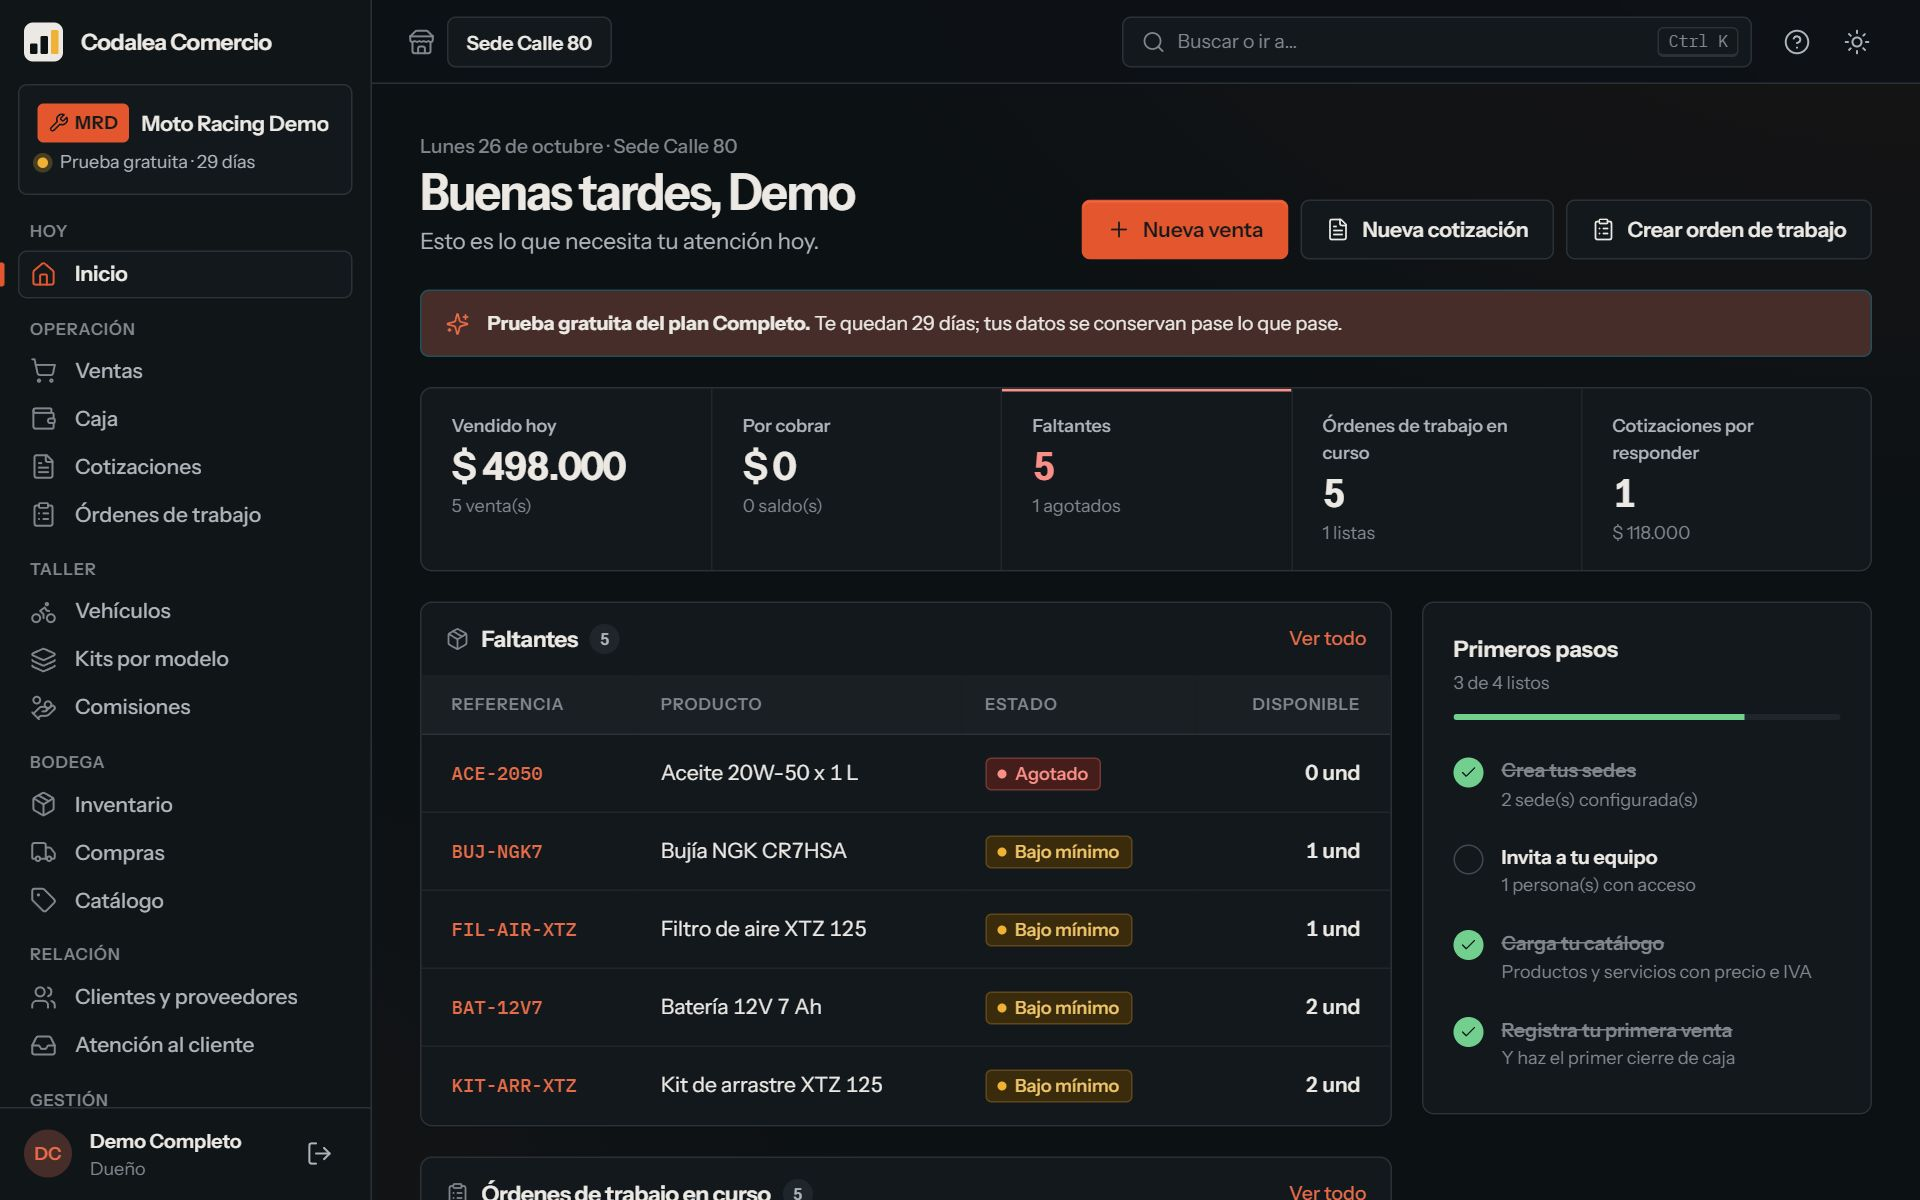
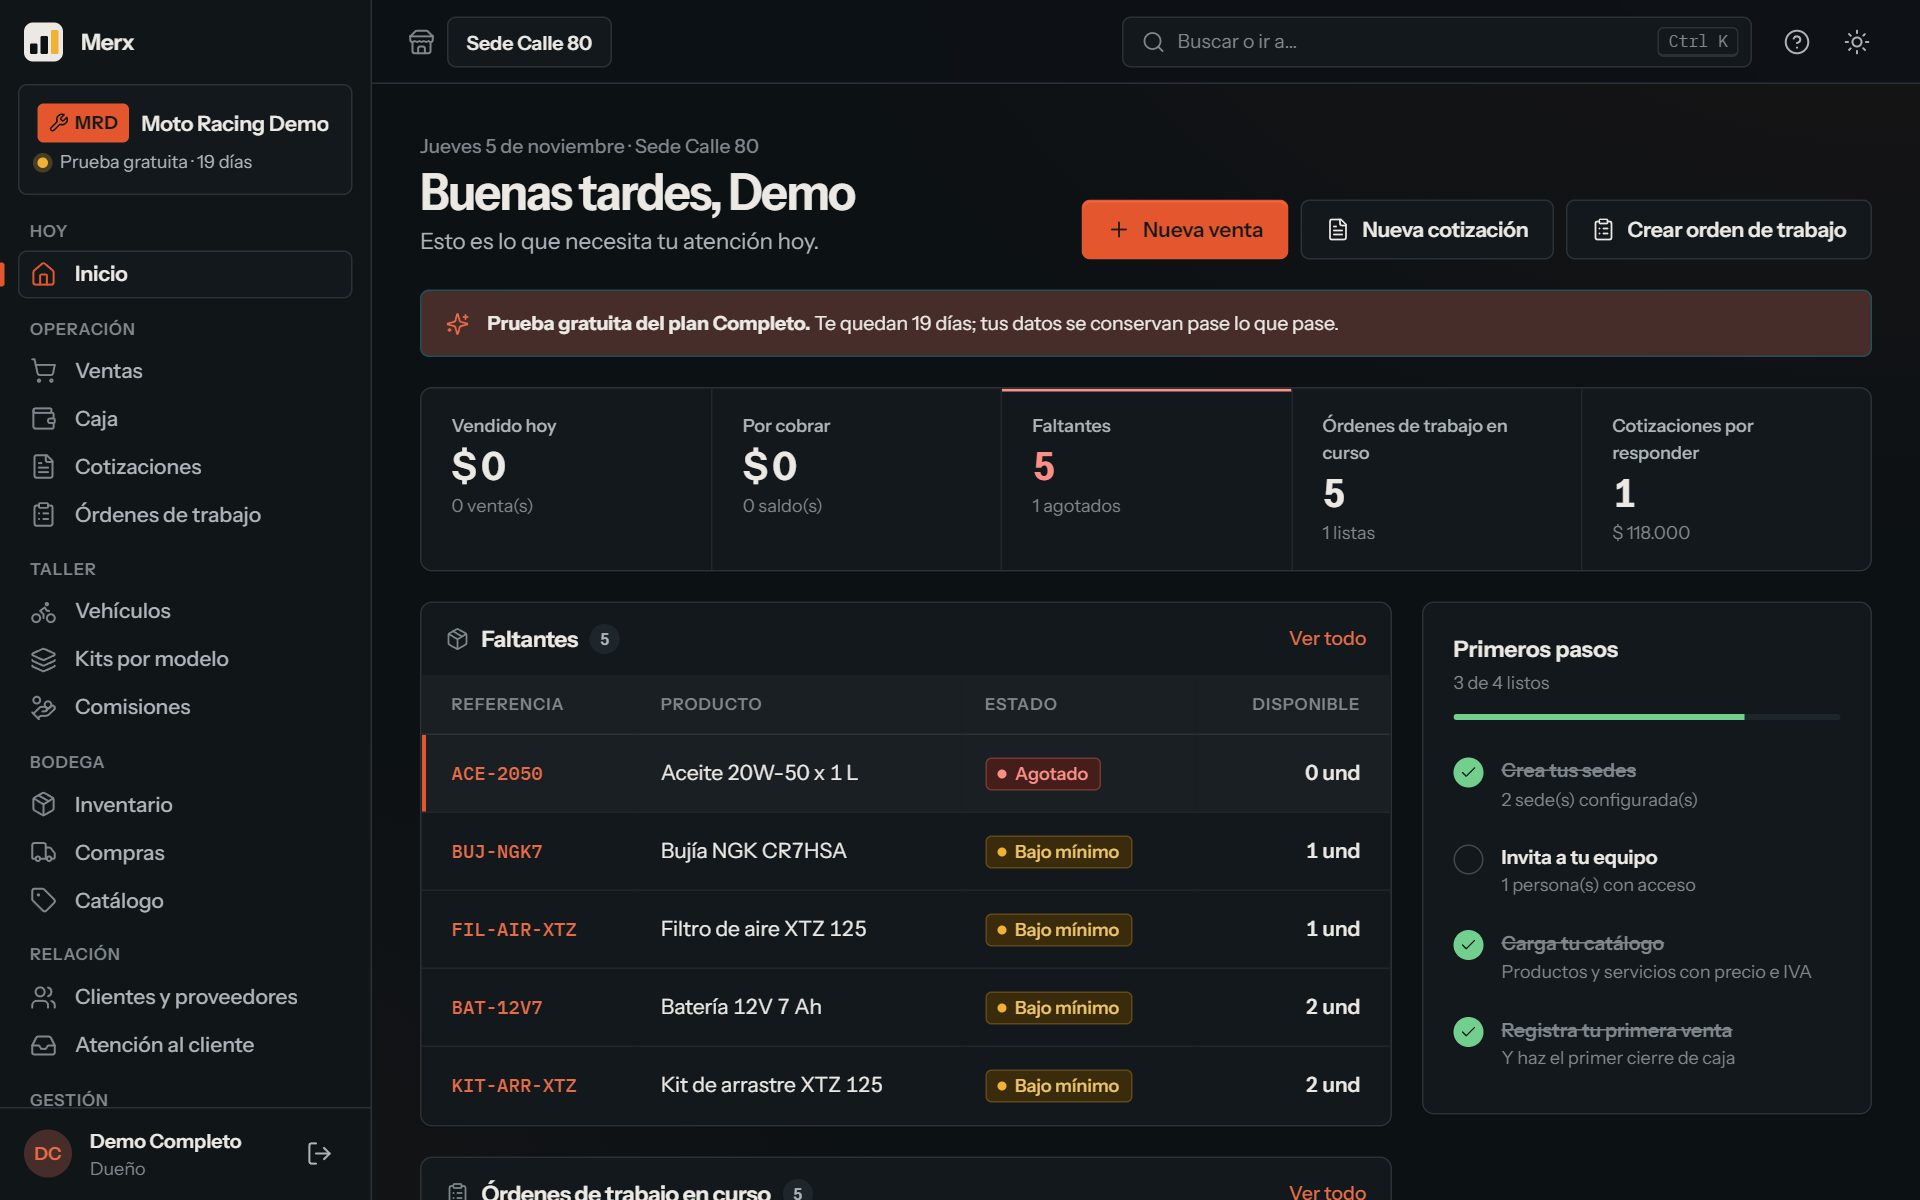
Sitio: el nombre del producto de talleres sale de la marca publicada por la app
- Las páginas usan {{producto}} y el script web/herramientas/marca.mjs lo llena al publicar con https://app.codalea.com.co/marca.json (respaldo en web/marca.json).
- El formulario toma la lista de productos de la misma marca.
- El sitio se republica una vez al día para tomar un cambio de nombre.
- Capturas del producto actualizadas con el nombre Merx.

diff --git a/web/index.html b/web/index.html
@@ -4,14 +4,14 @@
   <meta charset="utf-8" />
   <meta name="viewport" content="width=device-width, initial-scale=1" />
   <title>Codalea · Software para flotas, talleres y comercios en Colombia</title>
-  <meta name="description" content="AstraSystems para administrar flotas y alquiler de vehículos, y Codalea Comercio para talleres y comercios que venden, cobran y controlan su inventario. Software hecho en Colombia." />
+  <meta name="description" content="AstraSystems para administrar flotas y alquiler de vehículos, y {{producto}} para talleres y comercios que venden, cobran y controlan su inventario. Software hecho en Colombia." />
   <meta name="theme-color" content="#07080c" />
   <link rel="canonical" href="https://www.codalea.com.co/" />
   <meta property="og:type" content="website" />
   <meta property="og:locale" content="es_CO" />
   <meta property="og:site_name" content="Codalea" />
   <meta property="og:title" content="Codalea · Software para flotas, talleres y comercios" />
-  <meta property="og:description" content="Dos productos hechos en Colombia: AstraSystems para flotas y Codalea Comercio para talleres y comercios. Pruébalo o pide una demo." />
+  <meta property="og:description" content="Dos productos hechos en Colombia: AstraSystems para flotas y {{producto}} para talleres y comercios. Pruébalo o pide una demo." />
   <meta property="og:url" content="https://www.codalea.com.co/" />
   <meta property="og:image" content="https://www.codalea.com.co/assets/img/og.jpg" />
   <meta property="og:image:width" content="1200" />
@@ -49,7 +49,7 @@
       </button>
       <nav class="menu" id="menu" aria-label="Principal" data-menu>
         <a href="#astrasystems">AstraSystems</a>
-        <a href="#comercio">Codalea Comercio</a>
+        <a href="#comercio">{{producto}}</a>
         <a href="#como-trabajamos">Cómo trabajamos</a>
         <a href="#contacto">Contacto</a>
         <a class="boton boton--claro boton--chico" href="#contacto" data-producto-destino="">Hablemos</a>
@@ -64,7 +64,7 @@
       <div class="contenedor">
         <p class="sobretitulo">Codalea · Software operativo hecho en Colombia</p>
         <h1 class="portada__titulo" id="portada-titulo">Software para la <em>operación diaria</em> de tu negocio.</h1>
-        <p class="portada__bajada">Dos productos con el mismo cuidado: AstraSystems para quien administra vehículos y Codalea Comercio para talleres y comercios que venden, cobran y controlan su inventario.</p>
+        <p class="portada__bajada">Dos productos con el mismo cuidado: AstraSystems para quien administra vehículos y {{producto}} para talleres y comercios que venden, cobran y controlan su inventario.</p>
 
         <div class="productos">
           <article class="producto producto--astra">
@@ -93,7 +93,7 @@
             </a>
             <div class="producto__cuerpo">
               <p class="producto__segmento">Talleres y comercios</p>
-              <h2 class="producto__nombre">Codalea Comercio</h2>
+              <h2 class="producto__nombre">{{producto}}</h2>
               <p class="producto__texto">Recibe trabajos por placa, cotiza, vende y cobra con la caja y el inventario al día, en el computador o en el celular.</p>
               <ul class="producto__puntos">
                 <li>Nequi, Bre-B, efectivo y tarjeta</li>
@@ -224,7 +224,7 @@
     <section class="capitulo capitulo--comercio" id="comercio" aria-labelledby="comercio-titulo">
       <div class="contenedor">
         <header class="capitulo__cabeza">
-          <p class="capitulo__numero">02 — Codalea Comercio</p>
+          <p class="capitulo__numero">02 — {{producto}}</p>
           <div>
             <h2 class="capitulo__titulo" id="comercio-titulo">Del mostrador a la caja, sin cuadernos ni papeles sueltos.</h2>
             <p class="capitulo__bajada">Para talleres y comercios en Colombia. Empieza con talleres de motos y ya trae plantillas para comercio general, ferretería, supermercado y servicios.</p>
@@ -278,10 +278,10 @@
           </li>
         </ol>
 
-        <div class="telefonos" aria-label="Codalea Comercio en el celular">
+        <div class="telefonos" aria-label="{{producto}} en el celular">
           <figure>
             <button type="button" class="captura captura--telefono" data-ampliar>
-              <img src="assets/img/comercio/movil-inicio.jpg" alt="Inicio de Codalea Comercio en el celular con lo que necesita atención hoy" width="780" height="1688" loading="lazy" decoding="async" />
+              <img src="assets/img/comercio/movil-inicio.jpg" alt="Inicio de {{producto}} en el celular con lo que necesita atención hoy" width="780" height="1688" loading="lazy" decoding="async" />
             </button>
             <figcaption>Lo de hoy, de un vistazo</figcaption>
           </figure>
@@ -316,7 +316,7 @@
           </div>
           <div class="llamado__acciones">
             <a class="boton boton--comercio" href="https://app.codalea.com.co/registro">Crear mi cuenta gratis</a>
-            <a class="enlace-flecha" href="#contacto" data-producto-destino="Codalea Comercio">Prefiero una demo</a>
+            <a class="enlace-flecha" href="#contacto" data-producto-destino="{{producto}}">Prefiero una demo</a>
           </div>
         </div>
       </div>
@@ -397,7 +397,7 @@
             <select id="f-producto" name="producto" required data-producto>
               <option value="">Elige uno</option>
               <option>AstraSystems</option>
-              <option>Codalea Comercio</option>
+              <option>{{producto}}</option>
               <option>Los dos</option>
             </select>
           </div>
@@ -454,8 +454,8 @@
       </div>
       <nav class="pie__enlaces" aria-label="Pie de página">
         <a href="#astrasystems">AstraSystems</a>
-        <a href="#comercio">Codalea Comercio</a>
-        <a href="https://app.codalea.com.co/ingresar">Ingresar a Codalea Comercio</a>
+        <a href="#comercio">{{producto}}</a>
+        <a href="https://app.codalea.com.co/ingresar">Ingresar a {{producto}}</a>
         <a href="privacidad.html">Tratamiento de datos</a>
         <a href="terminos.html">Términos de uso</a>
       </nav>

diff --git a/web/privacidad.html b/web/privacidad.html
@@ -28,7 +28,7 @@
       <p class="legal__fecha">Vigente desde el 26 de octubre de 2026.</p>
 
       <h2>Quién es responsable</h2>
-      <p>Codalea, empresa colombiana que desarrolla los productos AstraSystems y Codalea Comercio, es responsable de los datos personales que recibe por este sitio. Puedes escribirnos a <a href="mailto:contacto@codalea.com.co">contacto@codalea.com.co</a> o por WhatsApp al <a href="https://wa.me/573229136824">+57 322 913 6824</a>.</p>
+      <p>Codalea, empresa colombiana que desarrolla los productos AstraSystems y {{producto}}, es responsable de los datos personales que recibe por este sitio. Puedes escribirnos a <a href="mailto:contacto@codalea.com.co">contacto@codalea.com.co</a> o por WhatsApp al <a href="https://wa.me/573229136824">+57 322 913 6824</a>.</p>
 
       <h2>Qué datos recogemos en este sitio</h2>
       <p>Cuando nos escribes por el formulario recibimos tu nombre, empresa, correo, celular si lo das, el producto que te interesa, el canal por el que prefieres que te respondamos y el mensaje que nos dejes. No pedimos datos sensibles ni de menores de edad.</p>
@@ -59,7 +59,7 @@
       <p>Escríbenos a <a href="mailto:contacto@codalea.com.co">contacto@codalea.com.co</a> con tu nombre, el dato o la solicitud y un medio para responderte. Atendemos las consultas en un máximo de diez (10) días hábiles y los reclamos en un máximo de quince (15) días hábiles, prorrogables en los términos de la Ley 1581 de 2012 si te informamos el motivo antes del vencimiento.</p>
 
       <h2>Datos que nuestros clientes guardan en los productos</h2>
-      <p>Cuando una empresa usa AstraSystems o Codalea Comercio, la información de sus clientes, proveedores, empleados y vehículos le pertenece a esa empresa, que es la responsable de su tratamiento. Codalea actúa como encargado: la guarda, la protege y la procesa solo para prestar el servicio. Para ejercer tus derechos sobre esos datos, acude primero a la empresa con la que tienes la relación; los productos le dan las herramientas para atenderte.</p>
+      <p>Cuando una empresa usa AstraSystems o {{producto}}, la información de sus clientes, proveedores, empleados y vehículos le pertenece a esa empresa, que es la responsable de su tratamiento. Codalea actúa como encargado: la guarda, la protege y la procesa solo para prestar el servicio. Para ejercer tus derechos sobre esos datos, acude primero a la empresa con la que tienes la relación; los productos le dan las herramientas para atenderte.</p>
 
       <h2>Seguridad y conservación</h2>
       <p>Aplicamos controles de acceso, conexiones cifradas y separación de la información de cada empresa. Conservamos los datos del formulario mientras sean necesarios para atender tu solicitud y la relación comercial que surja de ella.</p>

diff --git a/web/terminos.html b/web/terminos.html
@@ -28,13 +28,13 @@
       <p class="legal__fecha">Vigentes desde el 26 de octubre de 2026.</p>
 
       <h2>Alcance</h2>
-      <p>Estos términos regulan el uso de este sitio web, en el que Codalea presenta sus productos AstraSystems y Codalea Comercio. El uso de cada producto se rige por las condiciones que aceptas al crear tu cuenta o al firmar el acuerdo correspondiente.</p>
+      <p>Estos términos regulan el uso de este sitio web, en el que Codalea presenta sus productos AstraSystems y {{producto}}. El uso de cada producto se rige por las condiciones que aceptas al crear tu cuenta o al firmar el acuerdo correspondiente.</p>
 
       <h2>Información del sitio</h2>
       <p>Las capturas de pantalla muestran los productos con datos de demostración. Las funciones descritas corresponden a la versión vigente en la fecha de publicación y pueden evolucionar. La información del sitio no constituye una oferta vinculante; las condiciones comerciales se acuerdan por escrito.</p>
 
       <h2>Prueba gratuita</h2>
-      <p>Codalea Comercio ofrece una prueba gratuita de treinta (30) días sin medio de pago. Al terminar puedes continuar con un plan de pago o dejar de usarlo; tus datos se conservan según las condiciones del producto.</p>
+      <p>{{producto}} ofrece una prueba gratuita de treinta (30) días sin medio de pago. Al terminar puedes continuar con un plan de pago o dejar de usarlo; tus datos se conservan según las condiciones del producto.</p>
 
       <h2>Propiedad intelectual</h2>
       <p>Las marcas, logos, textos, diseño y software de este sitio y de los productos son de Codalea o se usan con autorización. No está permitido copiarlos o reutilizarlos sin permiso escrito.</p>

diff --git a/web/api/test/solicitud.test.js b/web/api/test/solicitud.test.js
@@ -1,8 +1,9 @@
 const test = require('node:test');
 const assert = require('node:assert');
 const { validar, armarCorreo, crearLimitador, MAXIMO_POR_VENTANA } = require('../src/solicitud');
+const { producto: PRODUCTO } = require('../src/marca.json');
 
-const valido = { nombre: 'Ana', empresa: 'Motos Ana', correo: 'ana@ejemplo.co', producto: 'Codalea Comercio', canal: 'WhatsApp', autorizaDatos: true };
+const valido = { nombre: 'Ana', empresa: 'Motos Ana', correo: 'ana@ejemplo.co', producto: PRODUCTO, canal: 'WhatsApp', autorizaDatos: true };
 
 test('acepta una solicitud completa', () => {
   assert.deepStrictEqual(validar(valido).errores, []);
@@ -29,7 +30,7 @@ test('el correo escapa el HTML que escribe el visitante', () => {
   const correo = armarCorreo(datos, new Date('2026-10-26T15:00:00Z'));
   assert.ok(!correo.html.includes('<script>'));
   assert.ok(correo.html.includes('&lt;script&gt;'));
-  assert.strictEqual(correo.asunto, 'Solicitud de Codalea Comercio · Motos Ana');
+  assert.strictEqual(correo.asunto, `Solicitud de ${PRODUCTO} · Motos Ana`);
 });
 
 test('limita los envíos por conexión', () => {

diff --git a/web/api/src/solicitud.js b/web/api/src/solicitud.js
@@ -1,4 +1,5 @@
-const PRODUCTOS = ['AstraSystems', 'Codalea Comercio', 'Los dos'];
+const { producto: PRODUCTO } = require('./marca.json');
+const PRODUCTOS = ['AstraSystems', PRODUCTO, 'Los dos'];
 const CANALES = ['Correo', 'WhatsApp', 'Llamada'];
 const LIMITES = { nombre: 120, empresa: 160, correo: 160, telefono: 30, tamano: 80, mensaje: 2000 };
 const VENTANA_MS = 10 * 60 * 1000;

diff --git a/web/README.md b/web/README.md
@@ -1,12 +1,12 @@
 # Sitio público de Codalea
 
-Sitio de `www.codalea.com.co`: presenta los dos productos de Codalea, AstraSystems (flotas y alquiler de vehículos) y Codalea Comercio (talleres y comercios). HTML, CSS y JavaScript sin build; el contenido está escrito en las páginas, así que se lee completo aunque JavaScript no cargue.
+Sitio de `www.codalea.com.co`: presenta los dos productos de Codalea, AstraSystems (flotas y alquiler de vehículos) y el producto de talleres y comercios, cuyo nombre (hoy Merx) no se escribe en las páginas: se usa `{{producto}}` y se llena al publicar. HTML, CSS y JavaScript sin build; el contenido está escrito en las páginas, así que se lee completo aunque JavaScript no cargue.
 
 ## Estructura
 
 ```
 web/
-├── index.html              Portada, AstraSystems, Codalea Comercio, cómo trabajamos y contacto
+├── index.html              Portada, AstraSystems, {{producto}}, cómo trabajamos y contacto
 ├── privacidad.html         Política de tratamiento de datos (Ley 1581 de 2012)
 ├── terminos.html           Términos de uso del sitio
 ├── 404.html                Página no encontrada
@@ -36,7 +36,7 @@ Pruebas: `cd web/api && npm install && npm test`.
 
 ## Capturas
 
-Las capturas de Codalea Comercio (`assets/img/comercio/`) se toman del ambiente local con el negocio de demostración, en tema oscuro. Las de AstraSystems están en `assets/img/product/`. No usar datos de clientes reales.
+Las capturas del producto de talleres (`assets/img/comercio/`) se toman del ambiente local con el negocio de demostración, en tema oscuro. Las de AstraSystems están en `assets/img/product/`. No usar datos de clientes reales.
 
 ## Desarrollo local
 
@@ -49,3 +49,7 @@ El formulario necesita la función; en local responde error y muestra las altern
 ## Publicación
 
 `.github/workflows/sitio-web.yml` publica en Azure Static Web Apps (`codalea-sitio`) cada push a `main` que toque `web/`. Solo se publican los archivos del sitio; esta guía y los documentos internos quedan fuera.
+
+## Nombre del producto
+
+El nombre vive en un solo lugar: el parámetro `nombreProducto` del Bicep del producto (repositorio gestion-comercial-mvp), que la app publica en `https://app.codalea.com.co/marca.json`. `node web/herramientas/marca.mjs [carpeta]` copia el sitio a `publicar/` reemplazando `{{producto}}` y `{{consola}}`, y genera `web/api/src/marca.json` para el formulario. Si la app no responde usa `web/marca.json` como respaldo; `MARCA_PRODUCTO` lo fuerza. El workflow lo corre en cada publicación y una vez al día, así que un cambio de nombre en el producto llega solo al sitio. Para ver el sitio en local, abre `publicar/` después de correr el script.
